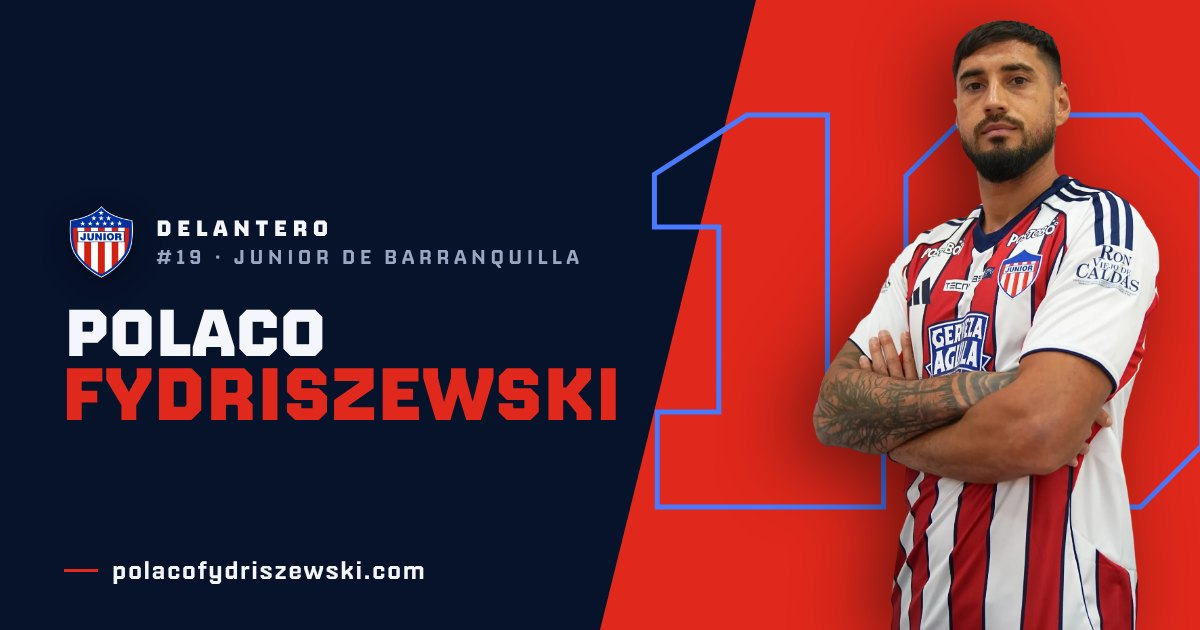
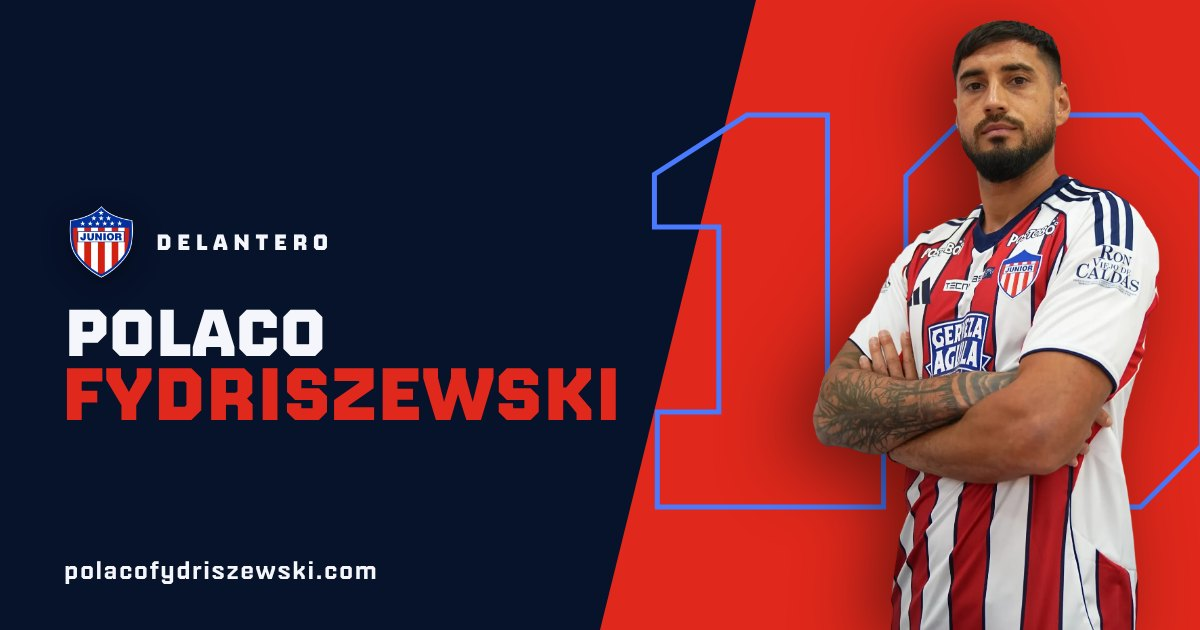
Imagen para redes: solo posición junto al escudo y dominio sin línea
Claude-Session: https://claude.ai/code/session_01SrwUJP1tggvyynQurAsrec

Changed region(s): [[0.1233, 0.3317, 0.4933, 0.4222], [0.0308, 0.8746, 0.37, 0.9349]]

diff --git a/og/og.html b/og/og.html
@@ -26,8 +26,8 @@ h1 .s{display:block;font-size:74px;color:var(--red);margin-left:-.04em}
 <div class="num">19</div>
 <img class="player" src="../assets/polaco-junior.webp" alt="">
 <div class="txt">
-  <div class="tag"><img src="../assets/junior.webp" alt=""><div><b>Delantero</b><br><span>#19 · Junior de Barranquilla</span></div></div>
+  <div class="tag"><img src="../assets/junior.webp" alt=""><b>Delantero</b></div>
   <h1><span class="n">Polaco</span><span class="s">Fydriszewski</span></h1>
 </div>
-<div class="domain"><i></i>polacofydriszewski.com</div>
+<div class="domain">polacofydriszewski.com</div>
 </body></html>
